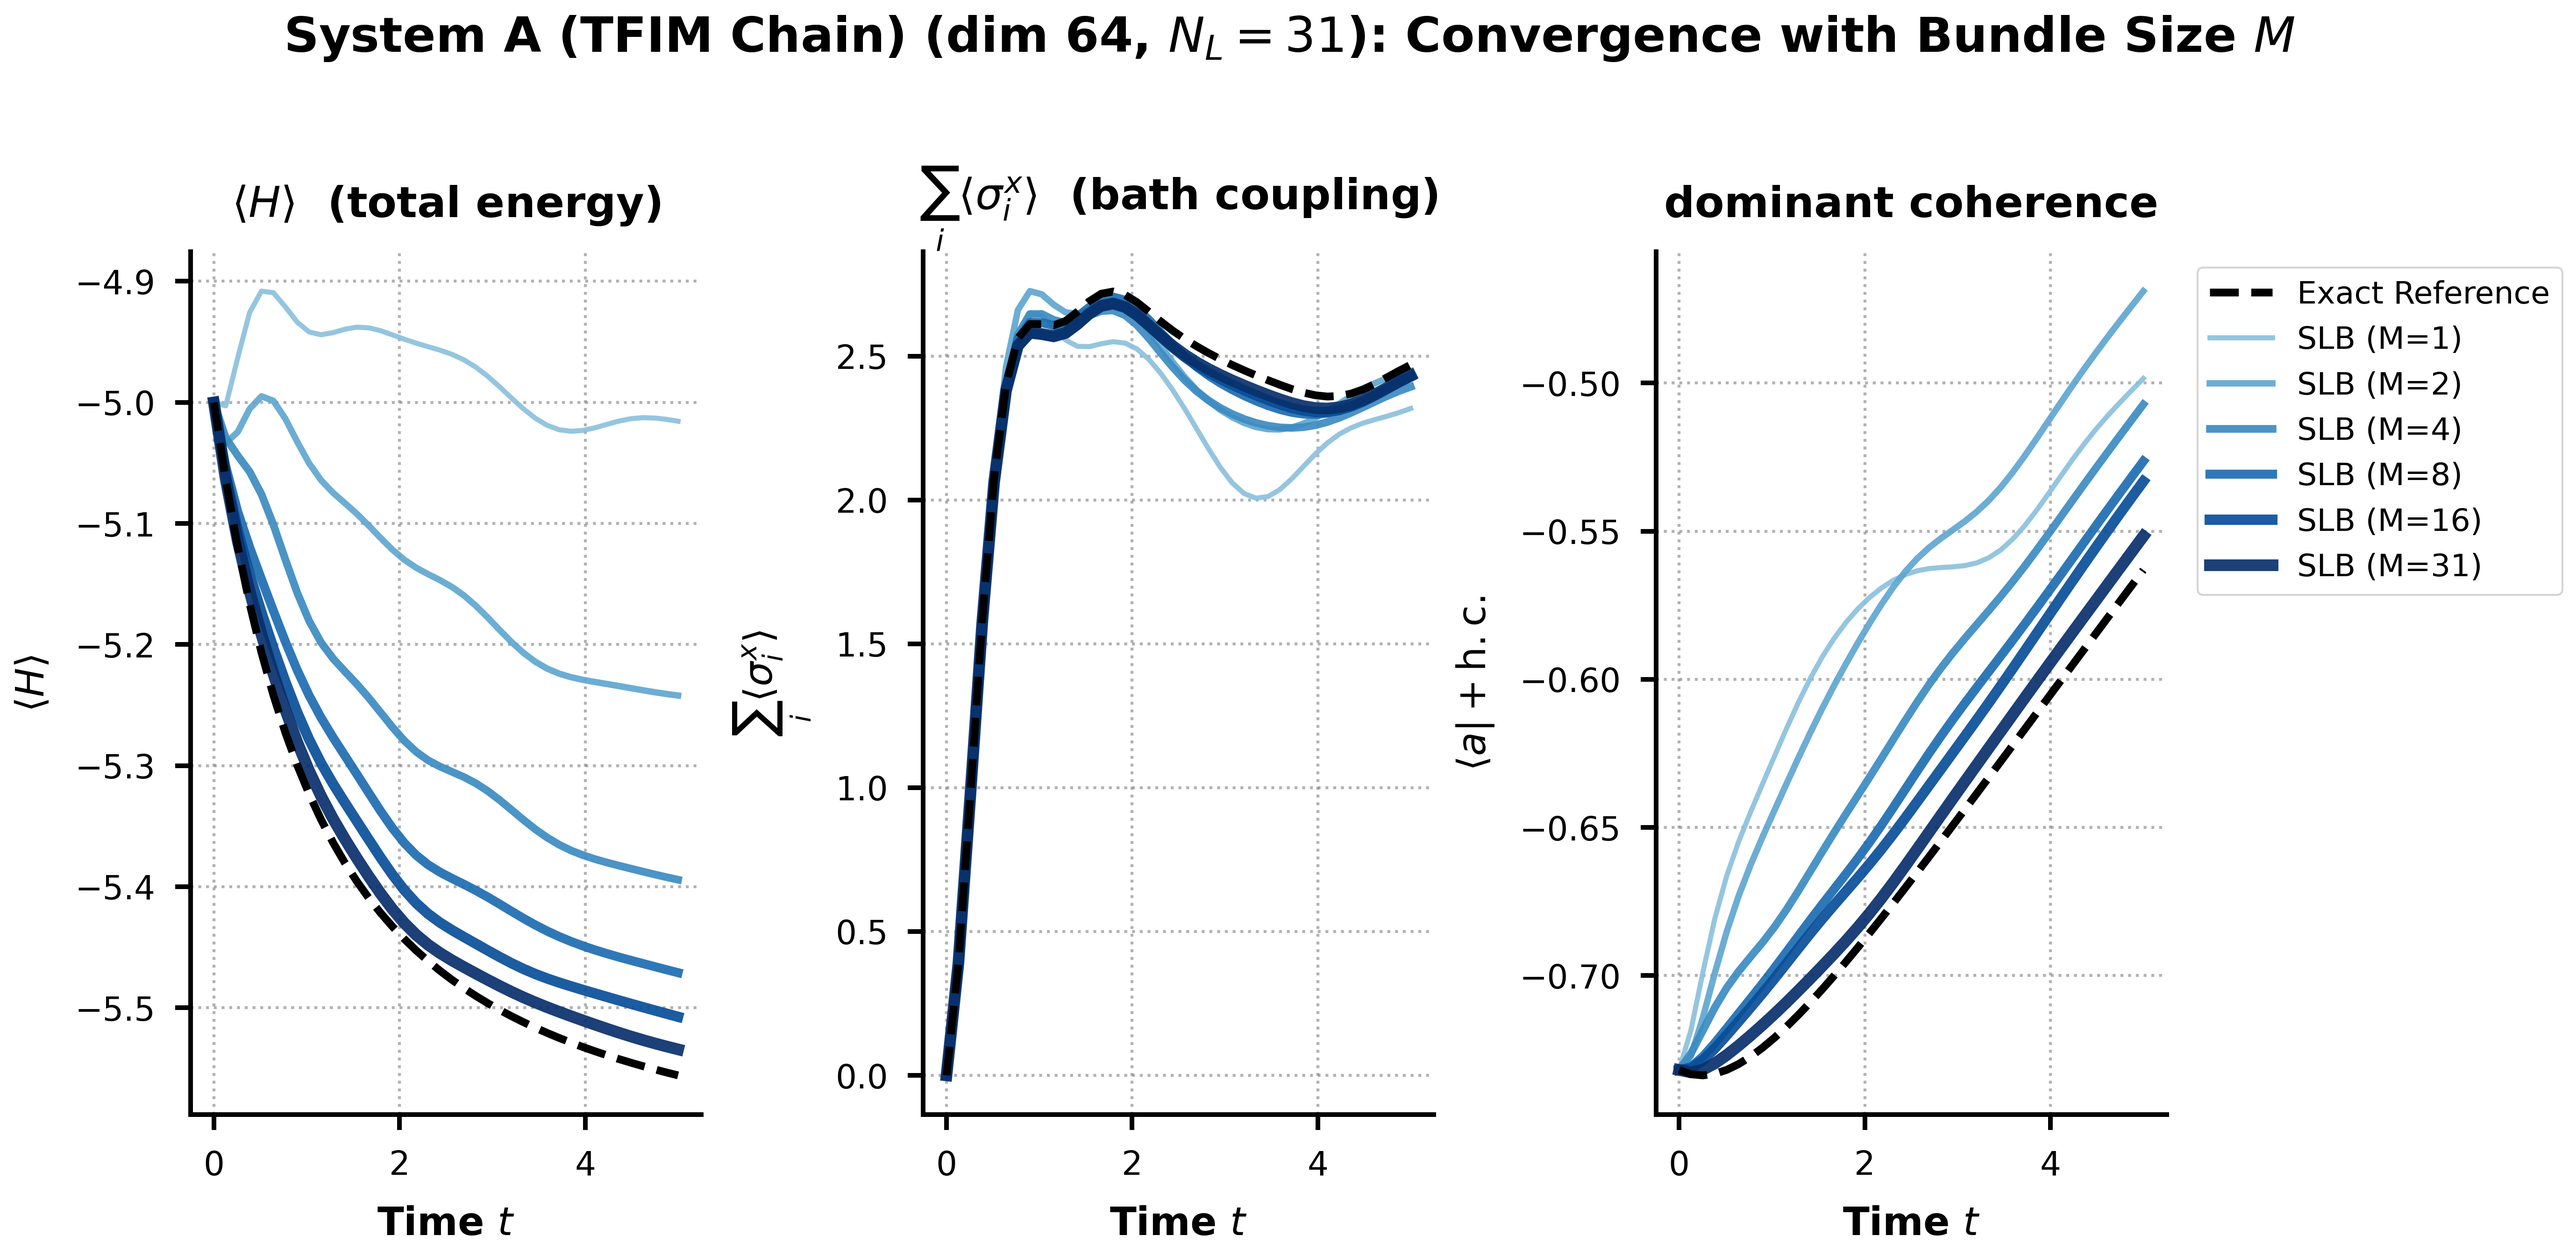
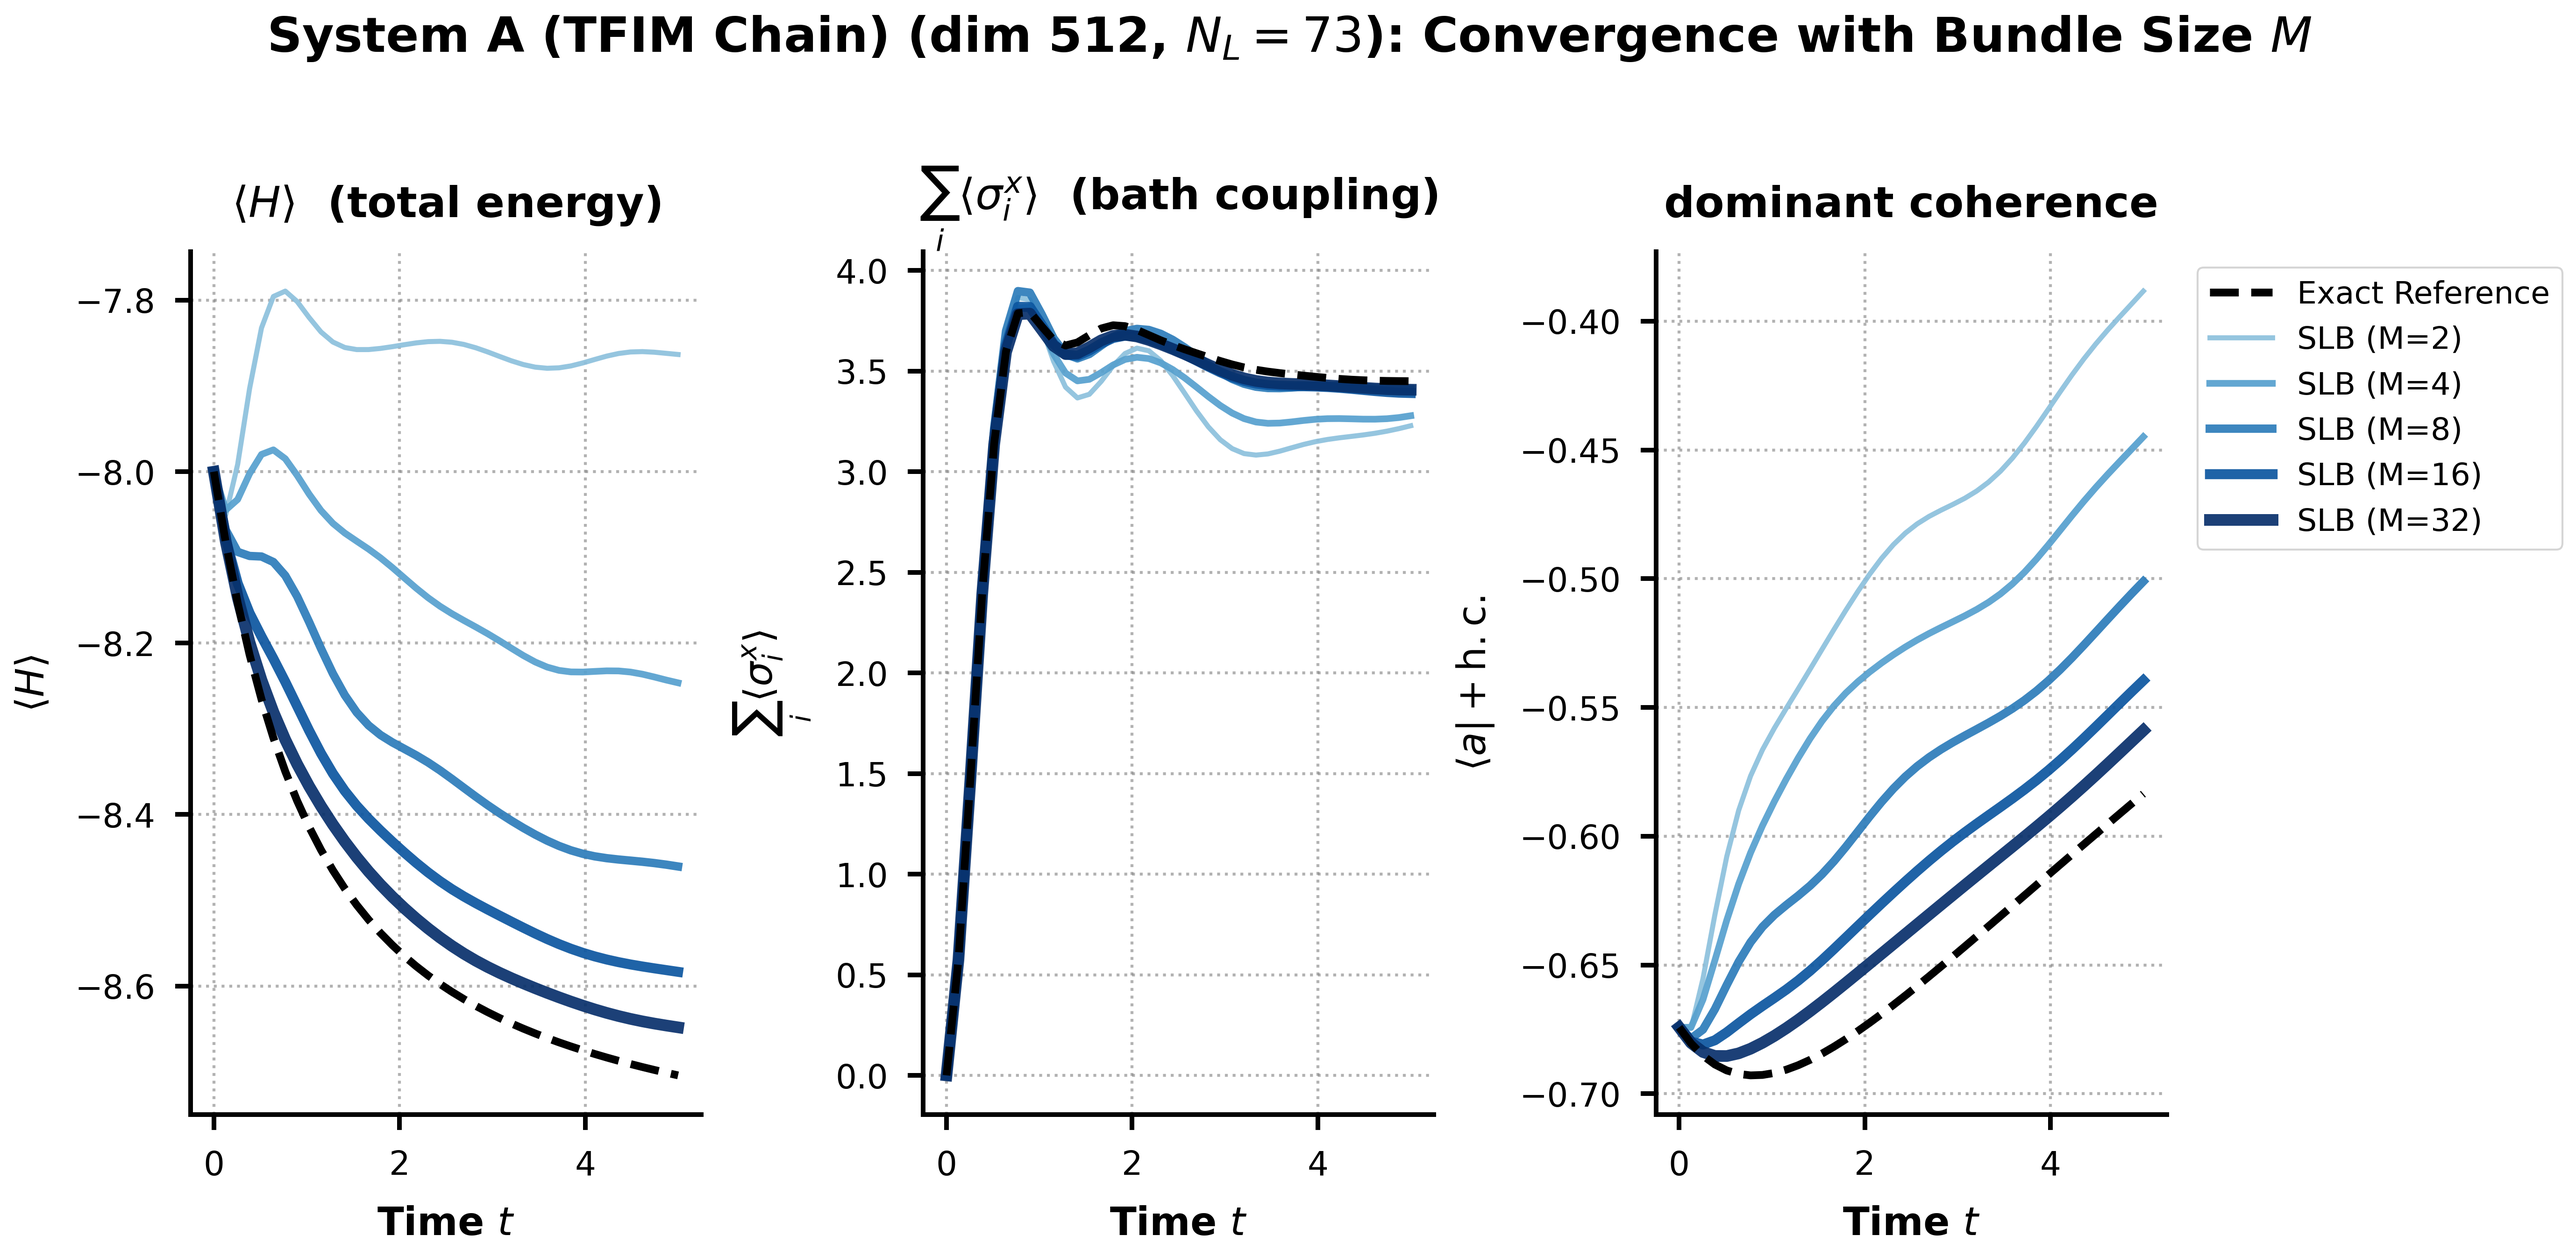
Result 1's opening figures now show each system at its largest size
R1a was pinned to dimension 64 for all three systems while R1b and R1c both
followed the largest committed file -- so the figure the section opens with
demonstrated convergence at 6 spins while the tables underneath went to 9. The
three groups now agree: dimension 512 for System A, 128 for System B and the
oscillator, chosen per system rather than globally.

The M ladder starts at 2. One unaveraged operator combination says nothing the
rest of the ladder does not, and on System A at dimension 512 it costs the
coherence panel most of its readable range.

THE FIGURE NOW SHOWS SOMETHING THE OLD ONE COULD NOT. Result 4 measures System
A's M* as N_L = 73 at dimension 512, and the ladder available here stops at 32.
So those panels are a system starved of bundles: converging at the right rate,
roughly halving per doubling of M, from a starting point so high the dial runs
out before arriving. It is the clearest picture in the document of what
bundling looks like on a system it cannot help, which is exactly what System A
is for.

Worst plotted panel, as a percentage of that panel's own reference span:

    A dim 512   M=2 179%   M=8 78%   M=32 22%    resolved at every rung
    B dim 128   M=2  62%   M=8 17%   M=32 4.7%   ... 0.81% at M=256
    C dim 128   M=2 4.7%   M=8 1.2%  M=32 0.7%   NEVER resolved

Three distinct behaviours, and all three match Result 4's independently fitted
M*: 73 for A, which the ladder never reaches; 64 for B, about where it vanishes
[…]

diff --git a/benchmarks/plot_convergence_dynamics.py b/benchmarks/plot_convergence_dynamics.py
@@ -11,12 +11,18 @@ Result 1's -- because that file stores per-realization curves for every
 observable at a single dimension, which is exactly what a time-trace panel
 needs. The practical consequences:
 
-  * the dimension is **64** by default, not the largest size Result 1 reaches;
+  * the dimension defaults to the LARGEST ``method_comparison`` file on disk
+    for each system, chosen per system rather than globally -- currently 512
+    for the chain and 128 for the other two. That matches what
+    ``plot_accuracy_vs_M.py`` and ``plot_R1_invariance.py`` already do, so all
+    three of Result 1's figure groups now show the same sizes;
   * there are **16 realizations** per M, not the 200 behind
     ``benchmark_accuracy_<system>.png`` and the error-decomposition figures;
-  * the M values are Result 3's grid (1, 2, 4, 8, 16, 32, 64, 128, 256) capped
-    at N_L, so they differ per system: A stops at 31, C at 32, and **B runs the
-    full grid to 256**.
+  * the M values are Result 3's grid capped at N_L, so they differ per system:
+    A and C run 2 to 32, and **B runs 2 to 256**;
+  * ``M=1`` is omitted by default (``--min-m``). One unaveraged operator
+    combination says nothing the rest of the ladder does not, and on System A
+    at dimension 512 it costs the coherence panel most of its readable range.
 
 Result 1's other two figure groups (error decomposition, size invariance) come
 from ``accuracy_vs_M_*`` with 200 realizations and are unaffected by any of
@@ -31,7 +37,7 @@ unchanged apart from the paths, the CLI, and this note.
 clean checkout could not regenerate the figure. Both are wrong: it was
 committed in 65f22db. The move stands on filing, not on reachability.)
 
-Run:  python plot_convergence_dynamics.py [--system ...] [--dim 64]
+Run:  python plot_convergence_dynamics.py [--system ...] [--dim auto|N] [--min-m 2]
 """
 
 from __future__ import annotations
@@ -98,7 +104,22 @@ def mean_curve(c):
     return np.mean(c, axis=0) if isinstance(c, (list, np.ndarray)) and np.ndim(c) == 2 else np.asarray(c)
 
 
-def plot_convergence_system_huge(system_name, display_name, observables, dim):
+def largest_dim(system_name):
+    """Largest committed method_comparison dimension for this system.
+
+    Per system, not global: the systems do not reach the same sizes, and
+    pinning all three to the smallest would waste the data the others have.
+    """
+    dims = [int(p.stem.split("dim")[-1])
+            for p in DATA_DIR.glob(f"method_comparison_{system_name}_dim*.json")]
+    return max(dims) if dims else None
+
+
+def plot_convergence_system_huge(system_name, display_name, observables, dim,
+                                 min_m=2):
+    if dim is None:
+        print(f"  SKIPPED {system_name}: no method_comparison files")
+        return
     path = DATA_DIR / f"method_comparison_{system_name}_dim{dim}.json"
     if not path.exists():
         print(f"  SKIPPED {system_name}: no {path.name}")
@@ -116,6 +137,7 @@ def plot_convergence_system_huge(system_name, display_name, observables, dim):
     slb = point['methods'].get('slb', [])
     obs_names = point.get('observables', [])
 
+    slb = [x for x in slb if x['M'] >= min_m]
     slb.sort(key=lambda x: x['M'])
     m_values = [x['M'] for x in slb]
     n_real = np.asarray(slb[0]["samples"]).shape[0] if slb else 0
@@ -186,14 +208,23 @@ def main():
     ap = argparse.ArgumentParser(description=__doc__.splitlines()[4])
     ap.add_argument("--system", action="append", choices=sorted(CONFIGS),
                     help="repeatable; default is all three.")
-    ap.add_argument("--dim", type=int, default=64,
-                    help="Hilbert dimension to draw (default 64 -- the size "
-                         "method_comparison covers on all three systems).")
+    ap.add_argument("--dim", default="auto",
+                    help="Hilbert dimension to draw, or 'auto' (the default) "
+                         "for the largest method_comparison file each system "
+                         "has. 'auto' matches plot_accuracy_vs_M.py and "
+                         "plot_R1_invariance.py, so Result 1's three figure "
+                         "groups show the same sizes.")
+    ap.add_argument("--min-m", type=int, default=2,
+                    help="lowest bundle size to draw (default 2). M=1 is one "
+                         "unaveraged operator combination and adds nothing the "
+                         "rest of the ladder does not.")
     args = ap.parse_args()
 
     for name in (args.system or sorted(CONFIGS)):
         display_name, observables = CONFIGS[name]
-        plot_convergence_system_huge(name, display_name, observables, args.dim)
+        dim = largest_dim(name) if args.dim == "auto" else int(args.dim)
+        plot_convergence_system_huge(name, display_name, observables, dim,
+                                     min_m=args.min_m)
 
 
 if __name__ == "__main__":

diff --git a/benchmarks/BENCHMARKS.md b/benchmarks/BENCHMARKS.md
@@ -1479,7 +1479,14 @@ cost axis across files that disagree unless forced.
 
 ### Result 1 — convergence dynamics versus the bundle size $M$
 
-To see exactly *how* SLB converges to the exact solution as the bundle size $M$ grows, we can plot the time-evolution of several observables for each system. The dashed black line is the exact reference dynamics, and the colored lines are SLB at $M \in \{1, 2, 4, 8, 16, 32\}$, darkening as $M$ increases.
+To see exactly *how* SLB converges to the exact solution as the bundle size $M$ grows, we can plot the time-evolution of several observables for each system. The dashed black line is the exact reference dynamics, and the coloured lines are SLB at increasing $M$, darkening as $M$ increases.
+
+**Each system is drawn at its own largest available size**, matching the two
+figure groups below: **dimension 512 for System A** (9 spins), 128 for System B
+and 128 for the oscillator. The ladders therefore differ — $M = 2$ to $32$ on A
+and the oscillator, $M = 2$ to $256$ on System B. $M=1$ is omitted throughout:
+a single unaveraged operator combination adds nothing the rest of the ladder
+does not.
 
 ![System A convergence](convergence_dynamics_spin_chain.png)
 ![System B convergence](convergence_dynamics_mixed_chain.png)
@@ -1487,38 +1494,46 @@ To see exactly *how* SLB converges to the exact solution as the bundle size $M$ 
 
 These plot $\langle O(t)\rangle$ against the exact reference as the system relaxes. As $M$ grows, the bundled mean tightens onto the reference—the approximation is a dial, not a fixed compromise. 
 
-The systems differ dramatically in how fast they converge, and the worst of
-each figure's own plotted panels puts a number on it — as a percentage of that
-observable's reference span, at the dimension 64 these panels are drawn at:
+**The three systems behave in three different ways, and the figures show it
+directly.** Taking the worst of each figure's own plotted panels, as a
+percentage of that panel's reference span:
 
-| worst plotted panel | $M=1$ | $M=8$ | $M=16$ | top rung |
-|---|---|---|---|---|
-| **A** TFIM chain | 97.2% | 21.5% | 17.5% | 6.7% at $M=31$ |
-| **B** mixed chain | — | **16.0%** | 7.1% | 3.9% at $M=32$ |
-| **C** oscillator | *every rung below its own sampling scatter* | | | |
+| worst plotted panel | $M=2$ | $M=8$ | $M=32$ | top rung | resolved? |
+|---|---|---|---|---|---|
+| **A** TFIM chain, dim 512 | **179%** | 78% | **22%** | 22% at $M=32$ | resolved at every rung |
+| **B** mixed chain, dim 128 | 62% | 17% | 4.7% | **0.81%** at $M=256$ | resolved to $M=16$ |
+| **C** oscillator, dim 128 | 4.7% | 1.2% | 0.7% | 0.7% at $M=32$ | **never** — always inside its own scatter |
 
-**Only the oscillator cannot be seen to deviate at all.** Every rung of its
-ladder sits within three standard errors of its own 16-realization scatter, so
-this figure cannot resolve its bias — which is precisely why its panels look
-featureless, discussed below. **Both chains are visibly off at $M=8$, and by
-similar amounts.** What separates them is how far the dial goes: System B
-reaches 3.9% by $M=32$ and keeps improving, while System A's ladder ends at
-$M=31$ — that is $N_L$ at this size — still 6.7% out and noise-limited itself
-by then.
+**System A is a system starved of bundles, and that is the point of showing
+it.** Result 4 measures its $M^\ast$ as $N_L = 73$ at this size, while the
+ladder available here stops at 32. The panels converge at the right *rate* —
+roughly halving per doubling of $M$ — from a starting point so high that the
+dial runs out before arriving. This is the clearest picture in the document of
+what bundling looks like on a system it cannot help.
 
-*An earlier version of this paragraph grouped System B with the oscillator,
-saying both "sit essentially on the reference at $M=8$". They do not resemble
-each other: at $M=8$ System B's worst panel is 16.0% of the span against System
-A's 21.5%, so the data groups B with A. The grouping also contradicted §2.5,
-which measures System B's error at $6.2\times10^{-2}$ against the oscillator's
-$6.6\times10^{-6}$ — four orders of magnitude apart — and §2.5 is the section
-that argues B and C are alike in cost and unalike in accuracy.*
+**System B converges into its own noise floor.** Resolved and visibly off up to
+$M=16$, then indistinguishable from sampling scatter from $M=32$ onward,
+reaching 0.81% at $M=256$. That is a dial closing.
 
-**The ordering matches Result 4's independently fitted $M^\ast$:** 2 for the
-oscillator, 64 for System B, and $N_L$ for System A, which still misses the 3%
-target even there. Convergence speed is set by the spread of the individual
+**The oscillator cannot be seen to deviate at any $M$.** Every rung sits within
+three standard errors of its 16-realization scatter, so this figure cannot
+resolve its bias at all — which is exactly why its panels look featureless,
+discussed below. Read the 4.7% and 0.7% as upper bounds, not measurements.
+
+**All three orderings match Result 4's independently fitted $M^\ast$** — 73 for
+System A, which the ladder never reaches; 64 for System B, which is about where
+it disappears into the floor; and 2 for the oscillator, which is below the
+floor from the start. Convergence speed is set by the spread of the individual
 operator contributions and cross-terms, not by dimension alone, so it is worth
 checking on your own system.
+
+*An earlier version of this paragraph said the oscillator and System B both
+"sit essentially on the reference at $M=8$". They do not resemble each other:
+System B is resolved and 17% out at that $M$, while the oscillator is
+unresolvable at every $M$. It also contradicted §2.5, which measures System B's
+error at $6.2\times10^{-2}$ against the oscillator's $6.6\times10^{-6}$ — four
+orders of magnitude apart — and §2.5 is the section arguing that B and C are
+alike in cost and unalike in accuracy.*
 
 **Beyond energy: capturing coherence.** Energy is nearly diagonal in the energy eigenbasis, so matching $\langle H\rangle$ says little about off-diagonal structure. Notice the `coherence` panels: SLB tracks the off-diagonal structure with the same convergence in $M$. Read that for exactly what it is — the observable is $|a\rangle\langle b| + |b\rangle\langle a|$, so it measures $2\,\mathrm{Re}\,\rho_{ab}$ for the single most-populated pair. It shows the method is not confined to the diagonal; it does not certify every coherence, the imaginary parts, or the full matrix.
 
